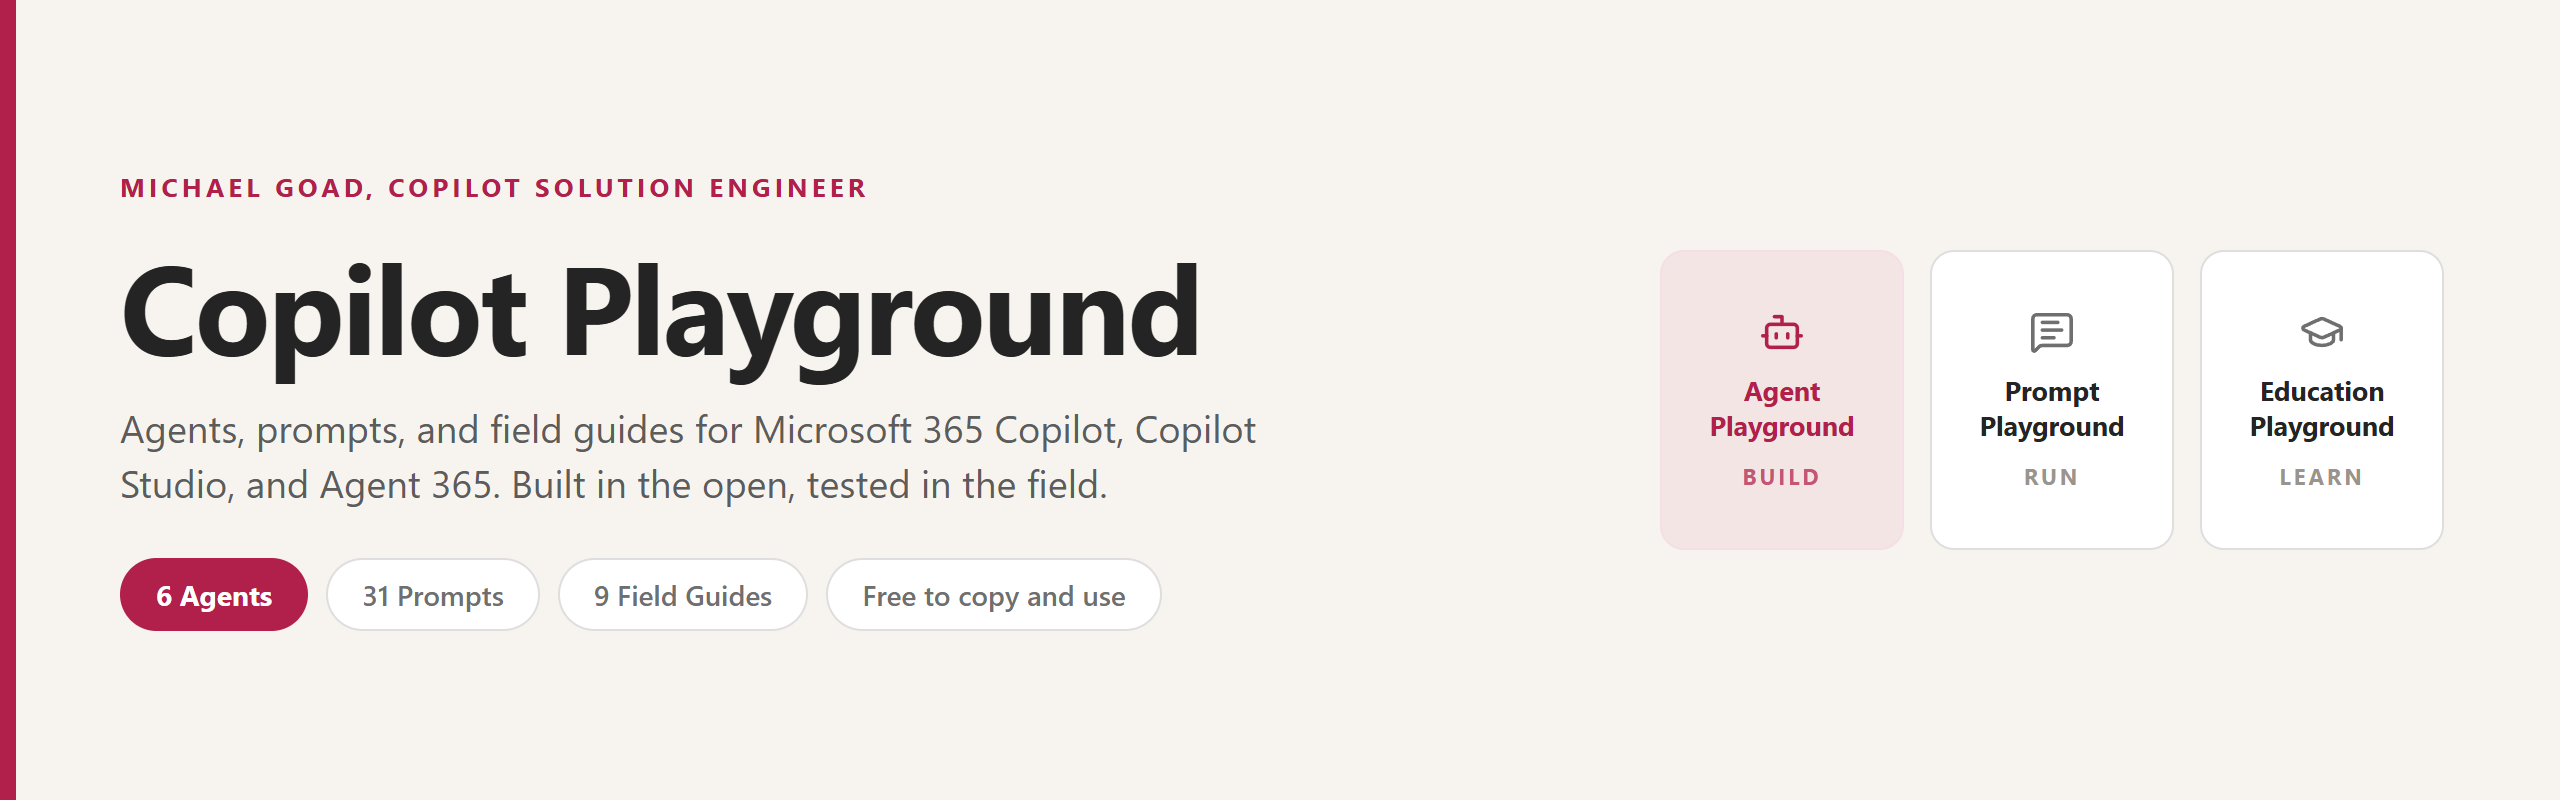
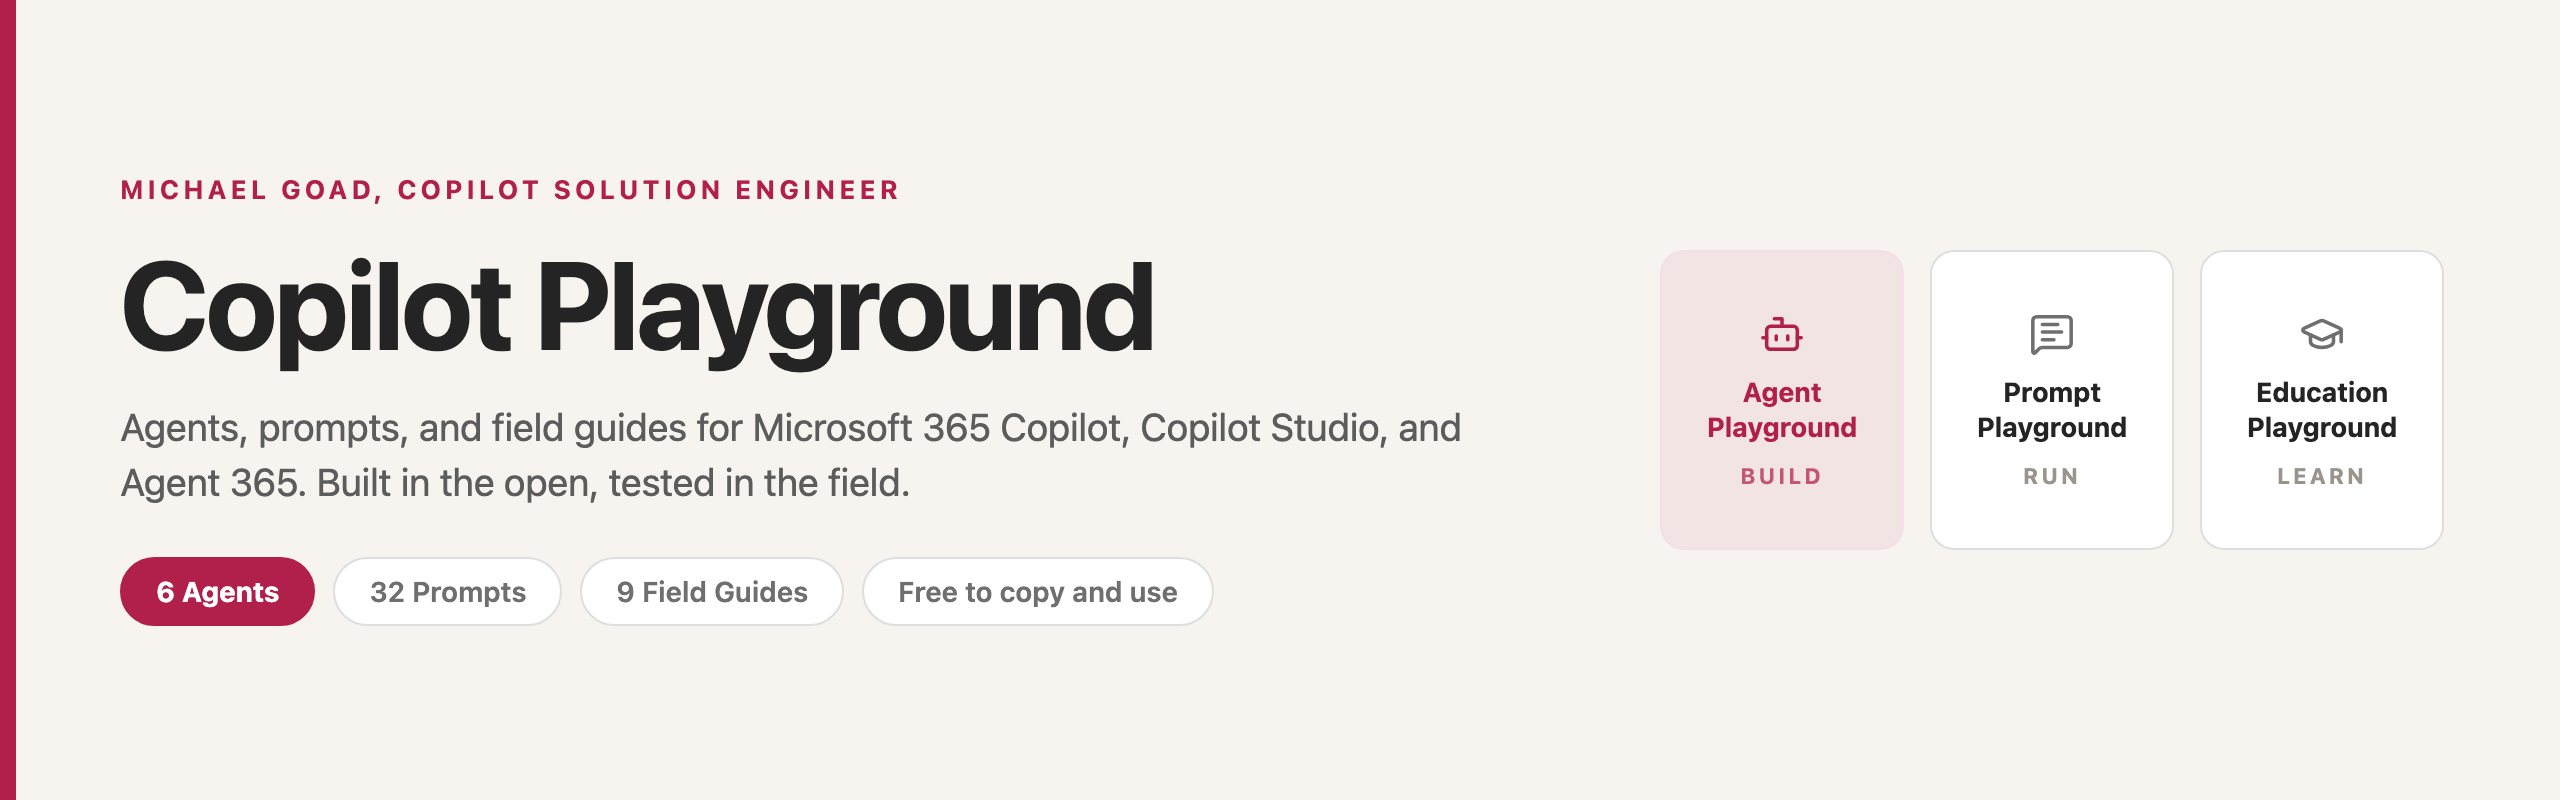
Add Teach-Back Tutor prompt, bump library count to 32
New Prompt Playground page under Growth and mindset. Turns a document,
deck, meeting, or project into an active recall session: plain-language
teaching with a workplace example each, then a five-question quiz that
waits for answers before correcting with evidence from the source.

Also updates the README counts and re-renders both hero banners so the
chip reads 32 Prompts.

diff --git a/assets/hero-dark.html b/assets/hero-dark.html
@@ -79,7 +79,7 @@
       <p class="lede">Agents, prompts, and field guides for Microsoft 365 Copilot, Copilot Studio, and Agent 365. Built in the open, tested in the field.</p>
       <div class="chips">
         <span class="chip on">6 Agents</span>
-        <span class="chip">31 Prompts</span>
+        <span class="chip">32 Prompts</span>
         <span class="chip">9 Field Guides</span>
         <span class="chip">Free to copy and use</span>
       </div>

diff --git a/assets/hero-light.html b/assets/hero-light.html
@@ -79,7 +79,7 @@
       <p class="lede">Agents, prompts, and field guides for Microsoft 365 Copilot, Copilot Studio, and Agent 365. Built in the open, tested in the field.</p>
       <div class="chips">
         <span class="chip on">6 Agents</span>
-        <span class="chip">31 Prompts</span>
+        <span class="chip">32 Prompts</span>
         <span class="chip">9 Field Guides</span>
         <span class="chip">Free to copy and use</span>
       </div>

diff --git a/prompt playground/teach-back tutor.md b/prompt playground/teach-back tutor.md
@@ -1,0 +1,95 @@
+# Teach-Back Tutor
+
+## What This Is
+
+Reading a 40-slide deck twice is not the same as learning it. This prompt turns a document, presentation, meeting, or project into an active study session. Copilot explains the key ideas in plain language, gives you one realistic workplace example for each, then quizzes you and waits for your answers before it corrects anything.
+
+The magic is in three words: **wait for my answers**. Drop that instruction and Copilot writes the questions and the answers in the same breath, you skim both, and you retain nothing. Keep it and you have to pull the material out of your own head first, which is the part that actually sticks.
+
+Good for onboarding onto a new account, prepping to present someone else's material, or catching up on a project you inherited.
+
+> [!TIP]
+> Swap the bracket for the real thing. Attach the file or name the meeting so Copilot grounds the lesson in your actual material instead of teaching you the internet's version of the topic.
+
+---
+
+## Quick Copy
+
+```
+Using [document, presentation, meeting, or project] as the source, teach me its key ideas in plain language with one realistic workplace example for each. Then quiz me with five questions, wait for my answers, and explain anything I misunderstand using evidence from the source.
+```
+
+---
+
+## Prompt (Full Breakdown)
+
+### Point It at Real Material
+
+`[document, presentation, meeting, or project]`
+
+The whole prompt rests on this one bracket. "Our security policy" is a guess. "The Q3 Security Standards doc in my OneDrive" is a source.
+
+| Source | How to reference it |
+|---|---|
+| Document | Attach it, or name the file and where it lives |
+| Presentation | Name the deck, and say if you only care about certain sections |
+| Meeting | Name the meeting and the date so it finds the right recap or transcript |
+| Project | Name the project plus the channel, folder, or people the work runs through |
+
+> [!NOTE]
+> This works best in a Copilot that can reach your work content, since that is what lets it teach from your deck instead of a generic explainer. No connected content? Attach the file directly in chat and it still works.
+
+---
+
+### Teach, Do Not Summarize
+
+`teach me its key ideas in plain language`
+
+A summary compresses. Teaching unpacks. Those are opposite jobs, and most people ask for the wrong one.
+
+Summaries are great when you already understand the material and just need the highlights. When you do not understand it yet, a summary hands you a shorter version of the thing you already could not follow. "Teach me" tells Copilot to define the terms, explain why the ideas connect, and stop hiding behind the source's vocabulary.
+
+---
+
+### One Example Each
+
+`with one realistic workplace example for each`
+
+Abstract ideas evaporate about four minutes after you read them. An example gives the idea somewhere to live.
+
+Say "realistic" and you get a scenario you could actually walk into. Leave it off and you get textbook filler about a fictional widget company. If the examples still feel generic, push back and say "use examples from my industry" or "use examples from my role."
+
+---
+
+### Five Questions, Then Stop
+
+`quiz me with five questions, wait for my answers`
+
+This is the load-bearing part.
+
+Five is enough to cover the real ideas without turning into a certification exam. The `wait` instruction is what converts the whole thing from reading into recall. You are forced to answer from memory, and the gap between what you thought you knew and what you could actually produce is the useful signal.
+
+Answer honestly. Guessing to look good in front of a chat window is a strange way to waste your own time.
+
+---
+
+### Corrections With Receipts
+
+`explain anything I misunderstand using evidence from the source`
+
+Anyone can be told they are wrong. Being shown where in the deck you went wrong is what fixes it.
+
+This also runs a quiet quality check on the source itself. When Copilot cannot point to evidence for a correction, one of two things is true: it is filling gaps with general knowledge, or the source never actually made that point clearly. Both are worth knowing, especially if you are the one who has to present the thing.
+
+---
+
+### Follow-Up Prompts
+
+- "Ask me five harder questions, but only on the parts I got wrong."
+- "Now flip it. I'll teach the material back to you, and you correct me where I'm off."
+- "Turn these five questions into a short quiz I can send the team before Thursday's session."
+- "What did the source leave unclear or unanswered?"
+
+---
+
+[Back to the Prompt Playground](../README.md#prompt-playground)

diff --git a/README.md b/README.md
@@ -1,14 +1,14 @@
 <picture>
   <source media="(prefers-color-scheme: dark)" srcset="assets/hero-dark.png">
   <source media="(prefers-color-scheme: light)" srcset="assets/hero-light.png">
-  <img alt="Copilot Playground. Agents, prompts, and field guides for Microsoft 365 Copilot, Copilot Studio, and Agent 365, by Michael Goad, Copilot Solution Engineer. Six agents, 31 prompts, nine field guides." src="assets/hero-light.png" width="100%">
+  <img alt="Copilot Playground. Agents, prompts, and field guides for Microsoft 365 Copilot, Copilot Studio, and Agent 365, by Michael Goad, Copilot Solution Engineer. Six agents, 32 prompts, nine field guides." src="assets/hero-light.png" width="100%">
 </picture>
 
 # Agents, prompts, and field guides for Microsoft 365 Copilot
 
 I am a Copilot Solution Engineer at Microsoft, and since joining I have been sharing what I learn, build, and break in the open.
 
-This is the whole library: **6 agents**, **31 prompts**, and **9 field guides** covering how to design, deploy, govern, and teach AI across Microsoft 365 Copilot, Copilot Studio, and Agent 365. Everything here is free to copy, adapt, and use.
+This is the whole library: **6 agents**, **32 prompts**, and **9 field guides** covering how to design, deploy, govern, and teach AI across Microsoft 365 Copilot, Copilot Studio, and Agent 365. Everything here is free to copy, adapt, and use.
 
 > [!NOTE]
 > This is a personal community resource. The analysis and opinions are my own and are not an official Microsoft position.
@@ -30,7 +30,7 @@ New to this? Pick the row that sounds like you.
 | Playground | Count | What it is |
 | --- | --- | --- |
 | [Agent Playground](#agent-playground) | 6 | Agents I have built, with setup steps and starter prompts |
-| [Prompt Playground](#prompt-playground) | 31 | Prompts and personalizations, ready to copy |
+| [Prompt Playground](#prompt-playground) | 32 | Prompts and personalizations, ready to copy |
 | [Education Playground](#education-playground) | 9 | Field guides for admins, executives, and practitioners |
 
 ---
@@ -115,6 +115,7 @@ Favorite prompts and personalizations. Most pages have a Quick Copy block so you
 | [Weekly Case Study Review](./prompt%20playground/weekly%20case%20study%20review.md) | Reframe your week as a structured business case study |
 | [Capability and Growth Planner](./prompt%20playground/career%20capability%20and%20growth%20planner.md) | Evidence-based strengths, gaps, and recommended next steps |
 | [My Work Life on One Whiteboard](./prompt%20playground/my%20work%20life%20on%20one%20whiteboard.md) | Your role, people, and values as one whiteboard sketch |
+| [Teach-Back Tutor](./prompt%20playground/teach-back%20tutor.md) | Turns a doc, deck, or meeting into a five-question quiz that waits for your answers |
 
 ### Executive and leadership
 
